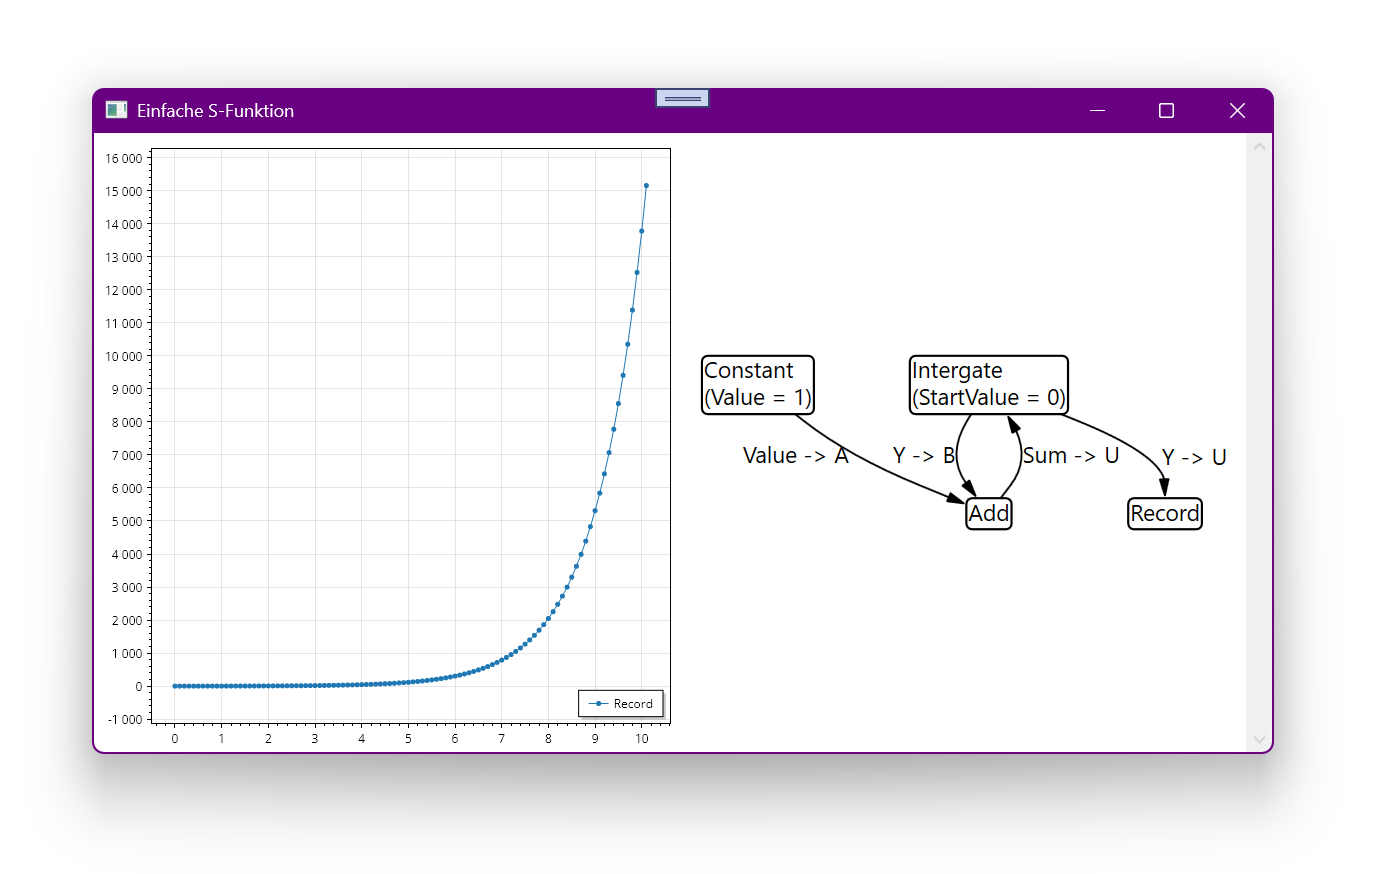
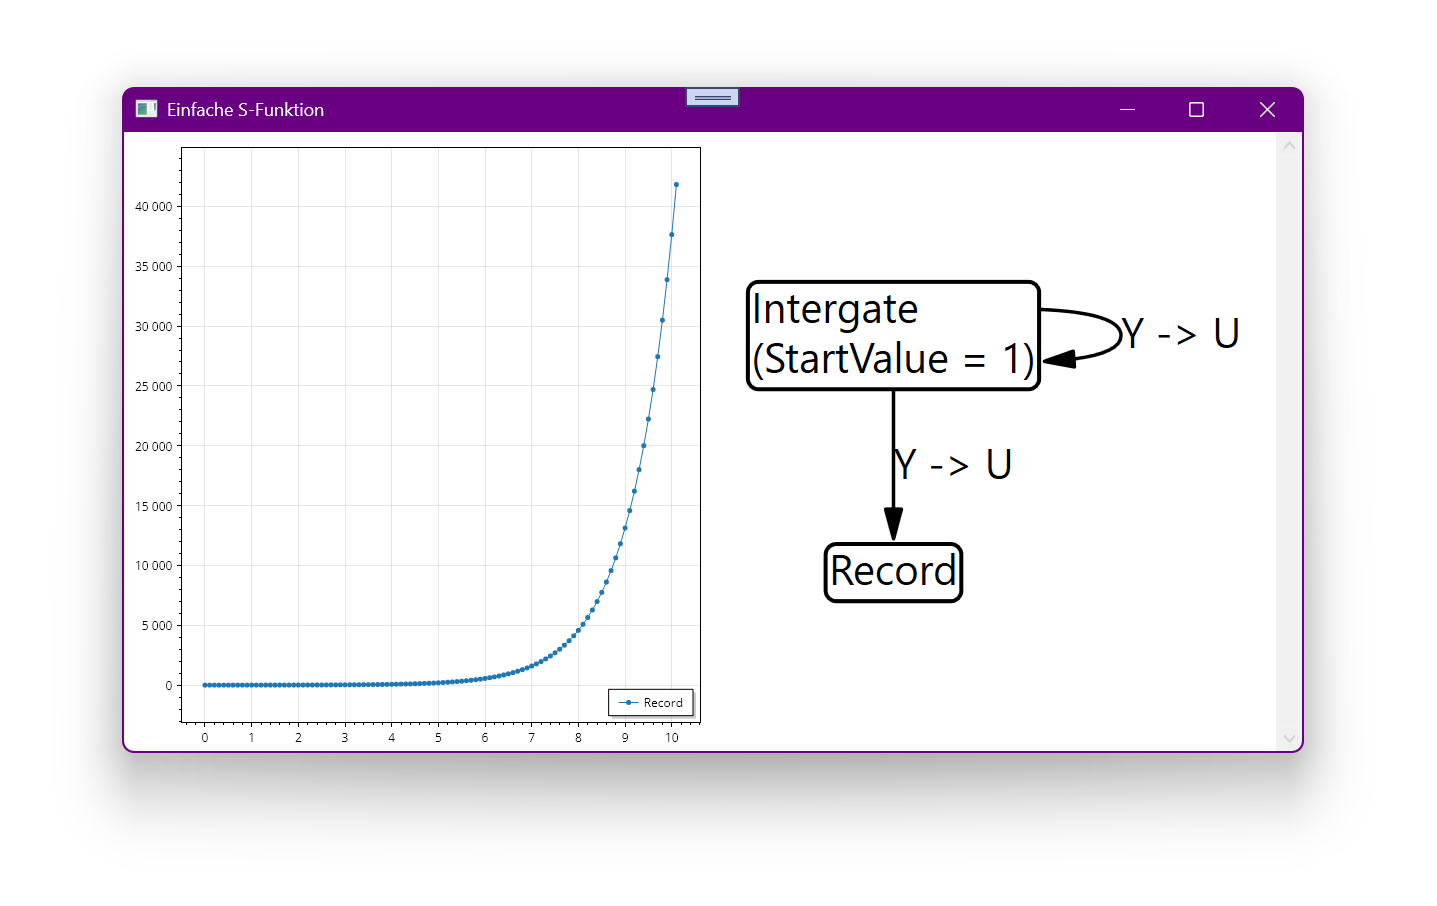
work on examples

Changed region(s): [[0.0309, 0.0927, 0.9274, 0.9268], [0.8037, 0.5252, 0.8656, 0.6178], [0.8347, 0.3398, 0.8656, 0.4016]]

diff --git a/Quellen/WS25/SFunctionContinuous/Framework/Examples/BasicExample.cs b/Quellen/WS25/SFunctionContinuous/Framework/Examples/BasicExample.cs
@@ -6,31 +6,22 @@ namespace SFunctionContinuous.Framework.Examples
     {
         public BasicExample()
         {
-            Block a = new ConstantBlock("Constant1", 1);
-            Block b = new ConstantBlock("Constant2", 2);
-            Block c = new GainBlock("Multiply", 2);
-            Block d = new AddBlock("Add");
-            Block e = new IntegrateBlock("Intergate1", 0);
-            Block f = new RecordBlock("Record1");
-            Block g = new IntegrateBlock("Integrate2", 0);
-            Block h = new RecordBlock("Record2");
+            Block c = new ConstantBlock("Constant1", 1);
+            Block i1 = new IntegrateBlock("Intergate1", 0);
+            Block i2 = new IntegrateBlock("Integrate2", 0);
+            Block r1 = new RecordBlock("Record1");
+            Block r2 = new RecordBlock("Record2");
 
-            Model.AddBlock(a);
-            Model.AddBlock(b);
             Model.AddBlock(c);
-            Model.AddBlock(d);
-            Model.AddBlock(e);
-            Model.AddBlock(f);
-            Model.AddBlock(g);
-            Model.AddBlock(h);
+            Model.AddBlock(i1);
+            Model.AddBlock(i2);
+            Model.AddBlock(r1);
+            Model.AddBlock(r2);
 
-            Model.AddConnection(a, 0, c, 0);
-            Model.AddConnection(c, 0, d, 0);
-            Model.AddConnection(b, 0, d, 1);
-            Model.AddConnection(d, 0, e, 0);
-            Model.AddConnection(e, 0, f, 0);
-            Model.AddConnection(e, 0, g, 0);
-            Model.AddConnection(g, 0, h, 0);
+            Model.AddConnection(c, 0, i1, 0);
+            Model.AddConnection(i1, 0, i2, 0);
+            Model.AddConnection(i1, 0, r1, 0);
+            Model.AddConnection(i2, 0, r2, 0);
         }
     }
 }

diff --git a/Quellen/WS25/SFunctionContinuous/Framework/Examples/BasicLoopExample.cs b/Quellen/WS25/SFunctionContinuous/Framework/Examples/BasicLoopExample.cs
@@ -6,20 +6,14 @@ namespace SFunctionContinuous.Framework.Examples
     {
         public BasicLoopExample()
         {
-            Block a = new ConstantBlock("Constant", 1);
-            Block b = new AddBlock("Add");
-            Block c = new IntegrateBlock("Intergate", 0);
-            Block d = new RecordBlock("Record");
+            Block i = new IntegrateBlock("Intergate", 1);
+            Block r = new RecordBlock("Record");
 
-            Model.AddBlock(a);
-            Model.AddBlock(b);
-            Model.AddBlock(c);
-            Model.AddBlock(d);
+            Model.AddBlock(i);
+            Model.AddBlock(r);
 
-            Model.AddConnection(a, 0, b, 0);
-            Model.AddConnection(b, 0, c, 0);
-            Model.AddConnection(c, 0, d, 0);
-            Model.AddConnection(c, 0, b, 1);
+            Model.AddConnection(i, 0, i, 0);
+            Model.AddConnection(i, 0, r, 0);
         }
     }
 }

diff --git a/Quellen/WS25/SFunctionContinuous/MainWindow.xaml.cs b/Quellen/WS25/SFunctionContinuous/MainWindow.xaml.cs
@@ -19,7 +19,7 @@ namespace SFunctionContinuous
 
             // Modell erstellen und lösen
 
-            Example example = new BouncingBallExample();
+            Example example = new BasicLoopExample();
 
             try
             {

diff --git a/Folien/04_Kontinuierliche_Dynamische_Modelle/README.md b/Folien/04_Kontinuierliche_Dynamische_Modelle/README.md
@@ -949,6 +949,49 @@ Die `Solver`-Klasse ist für die Durchführung der Simulation verantwortlich.
 
 ---
 
+### Simulationsschleife in `EulerExplicitSolver`
+
+1.  **Initialisierung**: `InitializeStates` aller Blöcke aufrufen.
+2.  **Zeitschleife** (`while t <= tmax`):
+    a. **Interne Zustände merken** für evtl. Schrittweitenanpassung.
+    b. **Nulldurchgangs-Schleife**:
+       - Zeitschritt `h` ggf. halbieren, um Nulldurchgang genau zu treffen.
+       - **Zustände integrieren**: $x_{k+1} = x_k + h \cdot \dot{x}_k$.
+       - **Ausgänge berechnen**: `CalculateOutputs` für alle Blöcke aufrufen.
+       - **Ableitungen berechnen**: `CalculateDerivatives` für alle Blöcke aufrufen.
+       - **Nulldurchgänge prüfen**: `CalculateZeroCrossings` aufrufen und prüfen, ob ein Vorzeichenwechsel stattgefunden hat.
+
+    c. **Bei Nulldurchgang**: `UpdateStates` der betroffenen Blöcke aufrufen (z.B. für einen Stoß).
+    d. **Zeit erhöhen**: $t = t + h$.
+
+---
+
+![bg contain right](./Screenshots/Einfaches_Beispiel_Euler_Explizit.png)
+
+TODO Folie zu BasicExample (inklusive mathematische Beschreibung)
+
+---
+
+![bg contain right](./Screenshots/Einfache_Schleife_Euler_Explizit.png)
+
+TODO Folie zu BasicLoopExample (inklusive mathematische Beschreibung)
+
+---
+
+![bg contain right](./Screenshots/Einfache_Algebraische_Schleife_Euler_Explizit.png)
+
+TODO Folie zu BasicAlgebraicLoopExample (inklusive mathematische Beschreibung)
+
+---
+
+TODO Folie zur Erkennung algebraischer Schleifen
+
+---
+
+TODO Folie zur Lösung algebraischer Schleifen
+
+---
+
 <div class="columns">
 <div class="three">
 
@@ -968,32 +1011,7 @@ Die `Solver`-Klasse ist für die Durchführung der Simulation verantwortlich.
 
 ---
 
-### Simulationsschleife in `EulerExplicitSolver`
-
-1.  **Initialisierung**: `InitializeStates` aller Blöcke aufrufen.
-2.  **Zeitschleife** (`while t <= tmax`):
-    a. **Interne Zustände merken** für evtl. Schrittweitenanpassung.
-    b. **Nulldurchgangs-Schleife**:
-       - Zeitschritt `h` ggf. halbieren, um Nulldurchgang genau zu treffen.
-       - **Zustände integrieren**: $x_{k+1} = x_k + h \cdot \dot{x}_k$.
-       - **Ausgänge berechnen**: `CalculateOutputs` für alle Blöcke aufrufen.
-       - **Ableitungen berechnen**: `CalculateDerivatives` für alle Blöcke aufrufen.
-       - **Nulldurchgänge prüfen**: `CalculateZeroCrossings` aufrufen und prüfen, ob ein Vorzeichenwechsel stattgefunden hat.
-
-    c. **Bei Nulldurchgang**: `UpdateStates` der betroffenen Blöcke aufrufen (z.B. für einen Stoß).
-    d. **Zeit erhöhen**: $t = t + h$.
-
----
-
 TODO Folie zur Simulationsschleife in EulerImplicitSolver
-
----
-
-TODO Folie zur Erkennung algebraischer Schleifen
-
----
-
-TODO Folie zur Lösung algebraischer Schleifen
 
 ---
 
@@ -1015,6 +1033,17 @@ Model.AddConnection(h, 0, v, 1); // HitLowerLimit -> Velocity (Reset-Trigger)
 Model.AddConnection(d, 0, v, 2); // Damping*v -> Velocity (Reset-Wert)
 ```
 
+---
+
+![bg contain right](./Screenshots/Bouncing_Ball_Euler_Explizit.png)
+
+TODO Folie zu Ergebnis des BouncingBall Beispiels mit explizitem Solver (Ball bleibt über die Nulllinie)
+
+---
+
+![bg contain right](./Screenshots/Bouncing_Ball_Euler_Implizit.png)
+
+TODO Folie zu Ergebnis des BouncingBall Beispiels mit implizitem Solver (Ball durchbricht die Nulllinie und "haut ab")
 
 ---
 
@@ -1024,6 +1053,6 @@ Model.AddConnection(d, 0, v, 2); // Damping*v -> Velocity (Reset-Wert)
 - Die **Zustandsraumdarstellung** ($\dot{x}=f(x,u), y=g(x,u)$) ist eine Standardform.
 - **Analytische Lösungen** sind exakt, aber selten findbar. **Numerische Lösungen** sind Approximationen und universell einsetzbar.
 - **Expliziter Euler** ist einfach, aber oft instabil.
-- **Impliziter Euler** ist stabil, erfordert aber die Lösung von (oft nichtlinearen) Gleichungssystemen in jedem Schritt (**algebraische Schleifen / DAEs**).
+- **Impliziter Euler** ist stabil, erfordert aber die Lösung von (oft nichtlinearen) Gleichungssystemen in jedem Schritt.
 - Die **Schrittweite `h`** ist ein kritischer Parameter, der Genauigkeit und Rechenaufwand steuert.
 - **S-Funktionen** bieten eine modulare Architektur, um komplexe Systeme zu modellieren, die von einem zentralen **Solver** gelöst werden.
